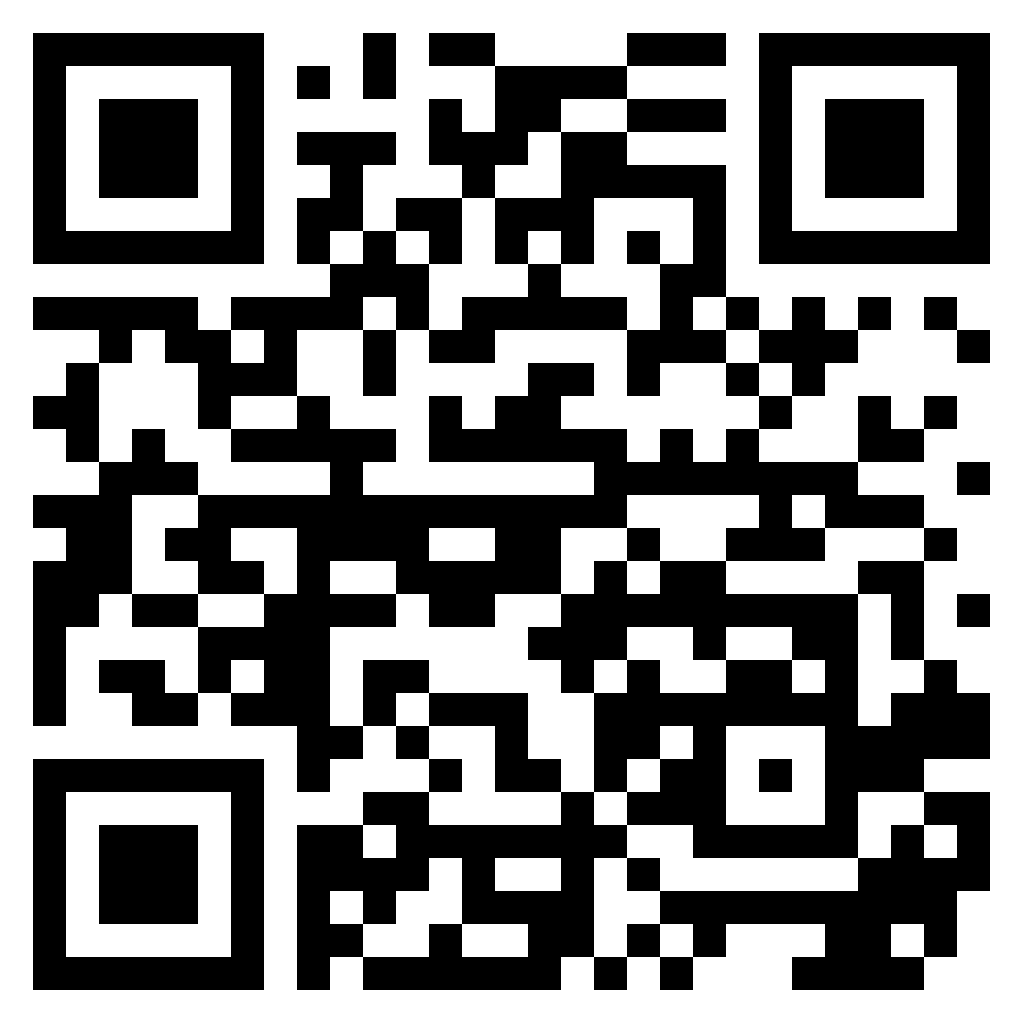
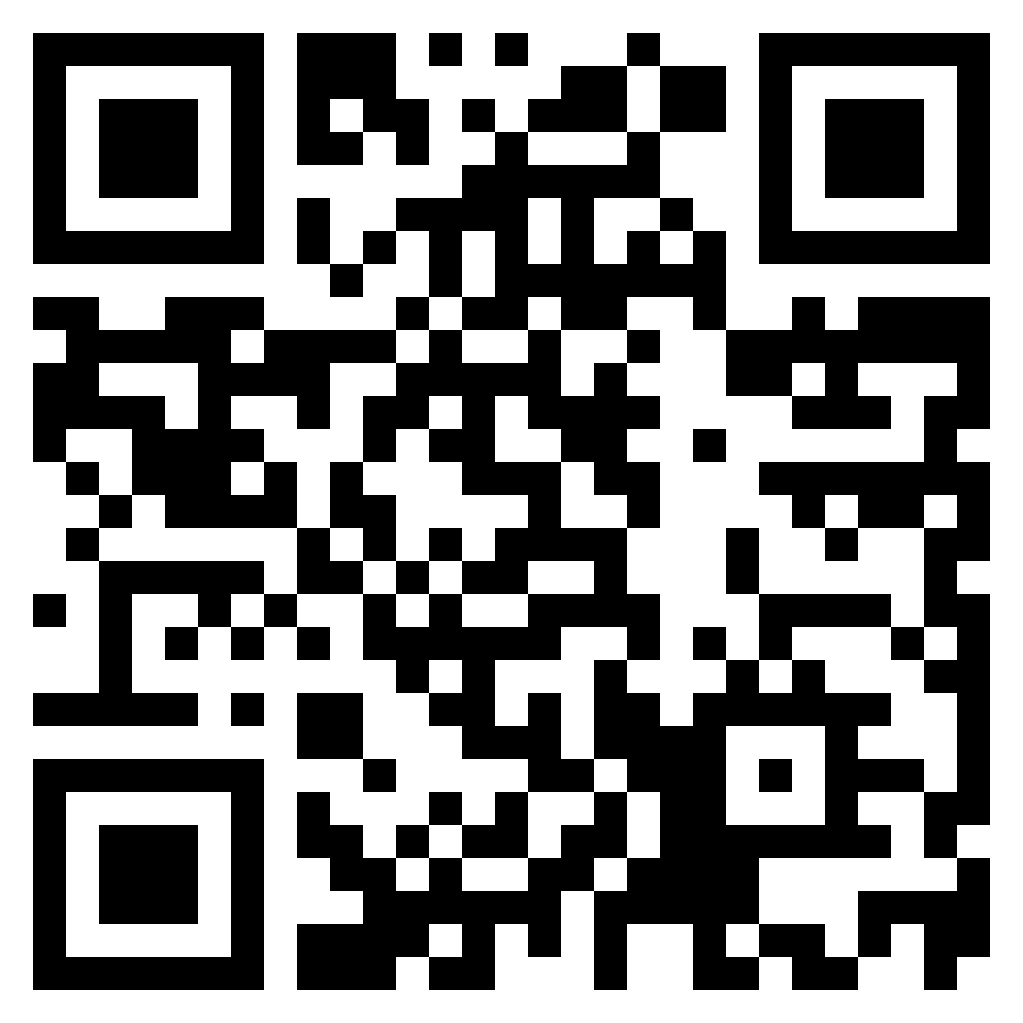
feat: qr code long version

diff --git a/apps/a11y/slides.md b/apps/a11y/slides.md
@@ -159,14 +159,11 @@ image: 'bendy-straw.webp'
 # Joseph Friedman and the bendy-straw
 
 ---
+layout: center
+---
 
 # Captions
 
-- Eating chips
-- Learning a language
----
-layout: center
----
 <vue-video src="youtube.webm" stillSrc="youtube-still.webp" :clicks="$slidev.nav.clicks"></vue-video>
 
 ---
@@ -182,13 +179,17 @@ layout: fact
 # Enough time
 
 ---
+layout: center
+---
 
-# Many users use a11y features
+<div class="grid justify-center text-center">
 
-- Android users love to customize EVERYTHING
-- 20% of teenage users have activated zoom mode
+# Resize text
 
-![Tweet by Nikita Bier: "Startups usually ignore accessibility—since they're just trying to prove that a product works. But when testing Gas, we started seeing screenshots on Snapchat that looked off. We found that over 20% of teens have Zoom-mode enabled, so we prioritized it & saw our K-factor jump 0.1"](tweet.webp)
+<img src="/tweet.webp"
+     alt="Tweet by Nikita Bier: Startups usually ignore accessibility—since they're just trying to prove that a product works. But when testing Gas, we started seeing screenshots on Snapchat that looked off. We found that over 20% of teens have Zoom-mode enabled, so we prioritized it & saw our K-factor jump 0.1"
+     style="height: 15rem;" />
+</div>
 
 ---
 layout: fact
@@ -197,18 +198,22 @@ layout: fact
 # Search engine optimization
 ---
 
-# Legal
+# Don't get sued
 
-- Austria has a law
-- EU will have a law in 2025
-- Corporations in 2025: surprised pikachu face
+- Americans with Disabilities Act (ADA)
+- European Accessibility Act (EAA)
+- Other national laws
 ---
 layout: center
 ---
 
+# EU corporations in 2025
+
+<div class="grid justify-center">
 <img src="surprised-pikachu.png"
      alt="Surprised Pikachu face meme"
      style="height: 15rem;" />
+</div>
 
 ---
 layout: center
@@ -219,18 +224,25 @@ layout: center
      style="height: 28rem;" />
 
 ---
-layout: two-cols
+layout: two-cols-header
 ---
 
-::default::
+::header::
 
 # Thank you
-<br>
-<small>@felixmhoffmann</small>
+
+::left::
+
+<div class="h-full grid items-end">
+  <small>@felixmhoffmann</small>
+</div>
 
 ::right::
 
-<img src="qrcode.png" alt="QR code with a link to the slides" style="height: 15rem;">
-<br>
-Slides
+<div class="h-full grid items-end justify-end">
+  <div>
+    <p>Slides</p>
+    <img src="qrcode.png" alt="QR code with a link to the slides" style="height: 11rem;">
+  </div>
+</div>
 
